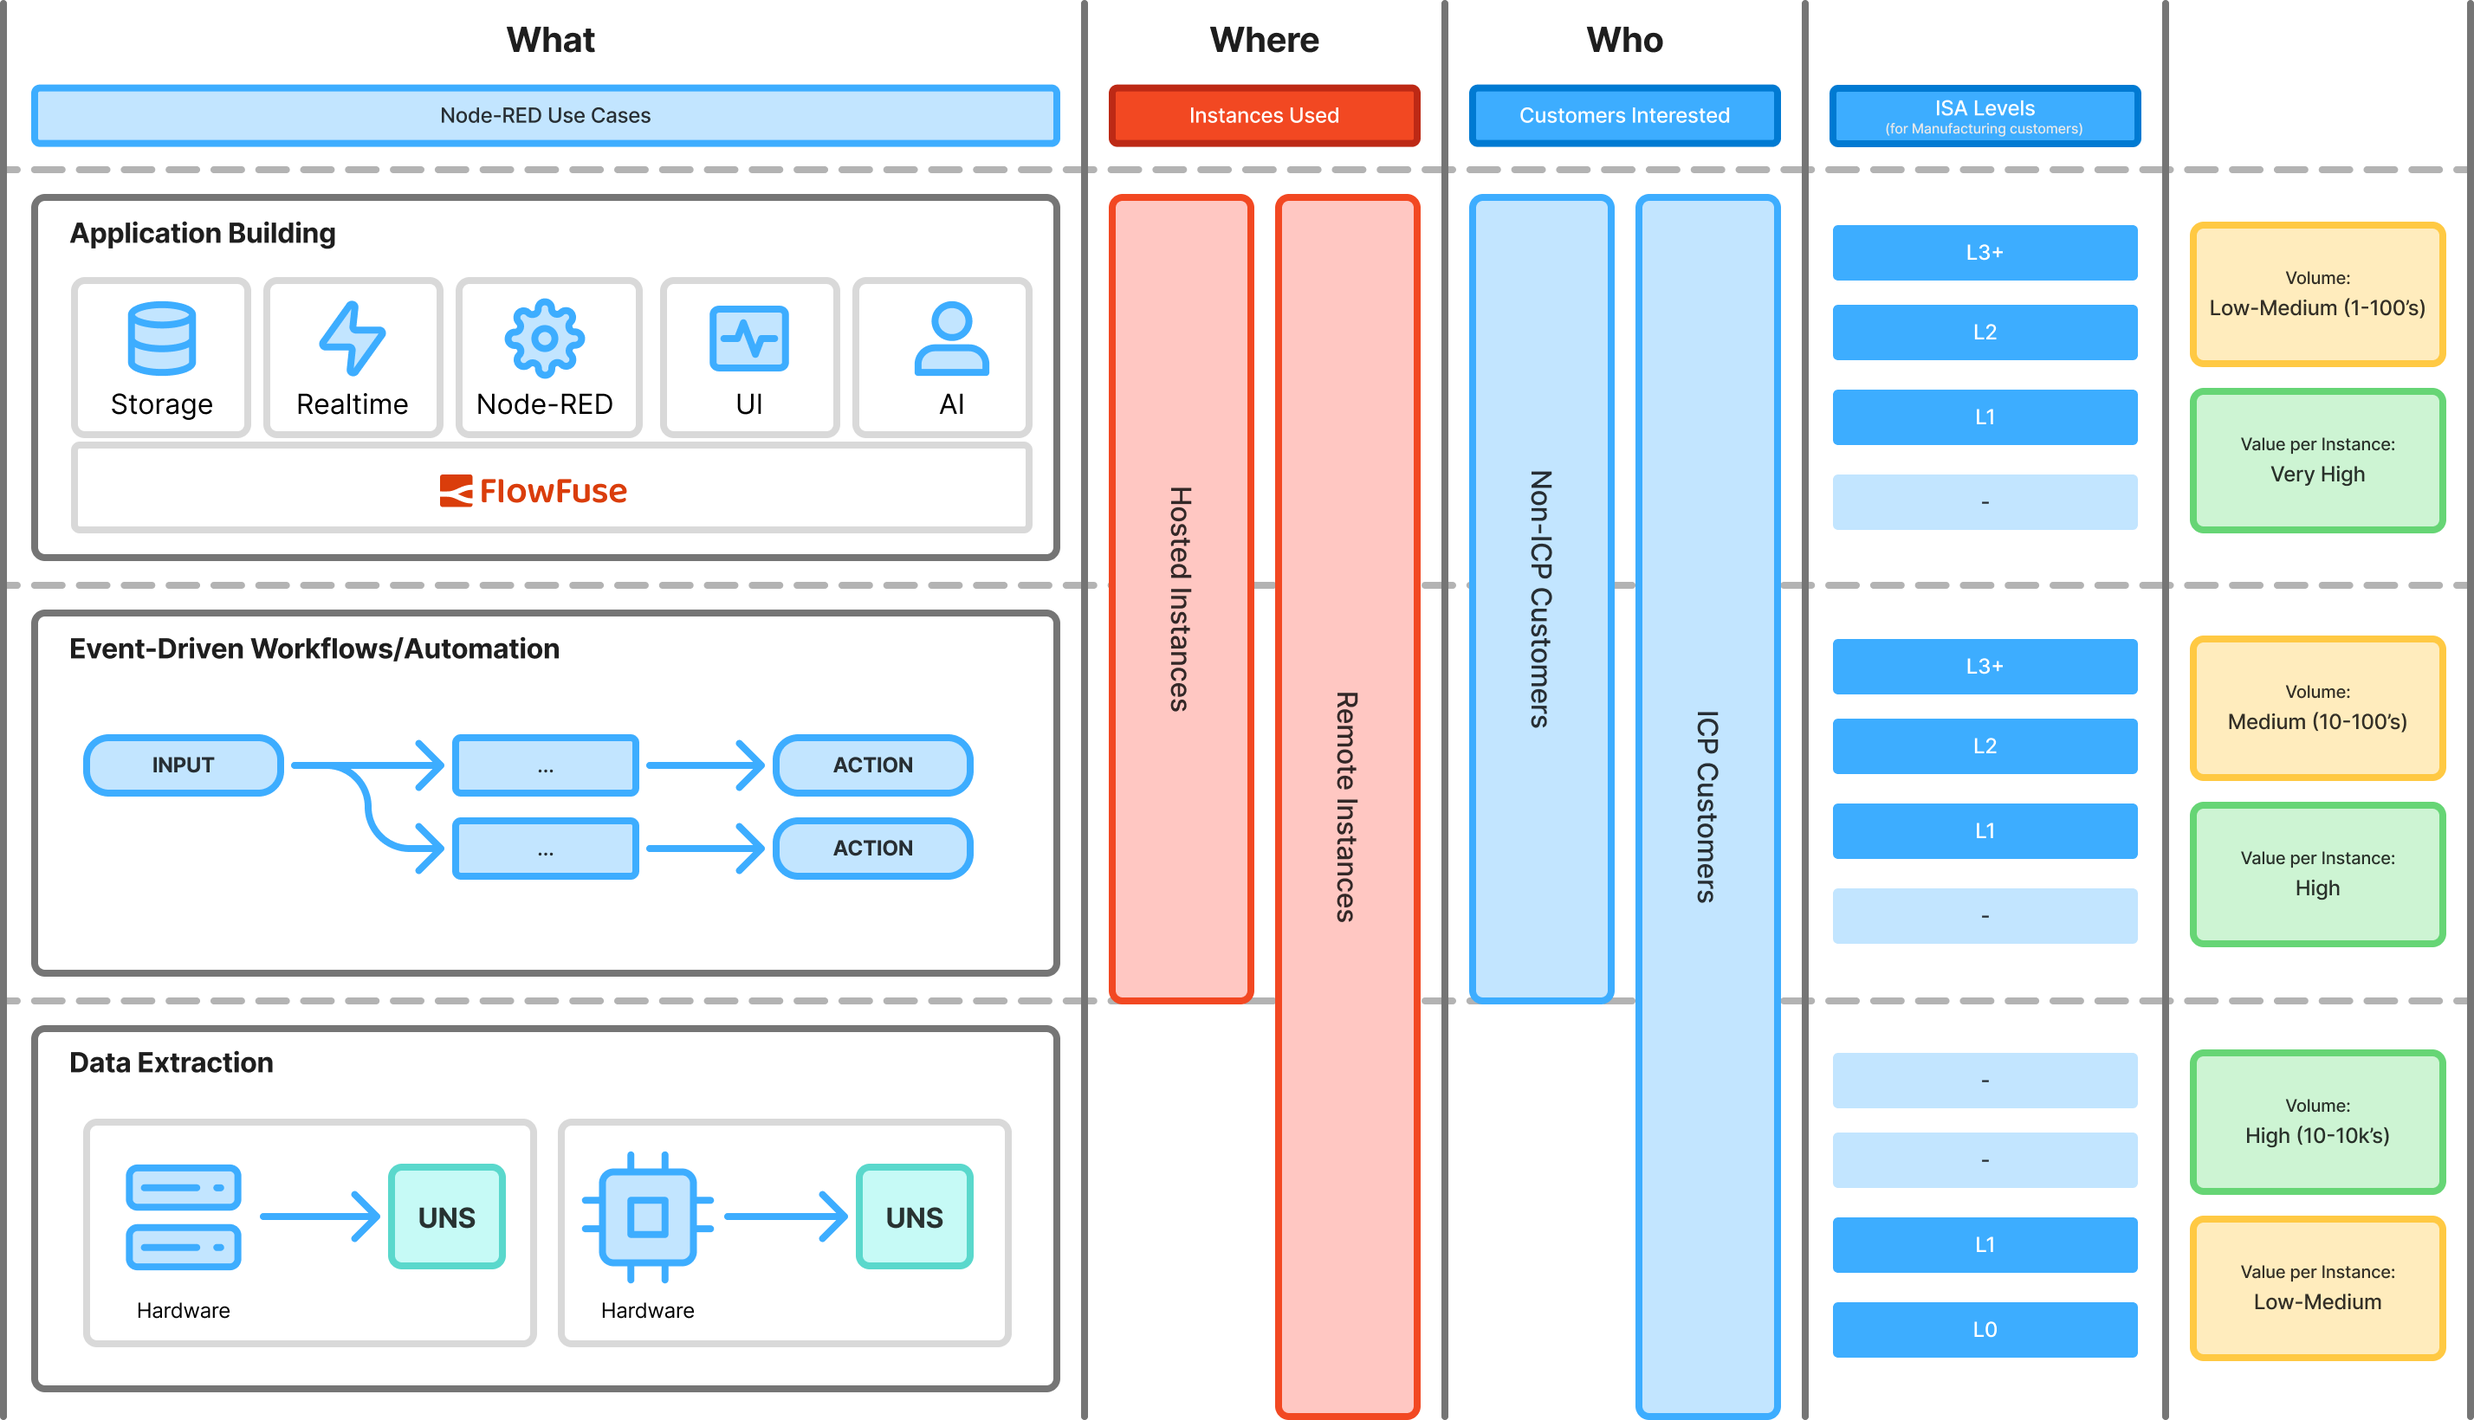
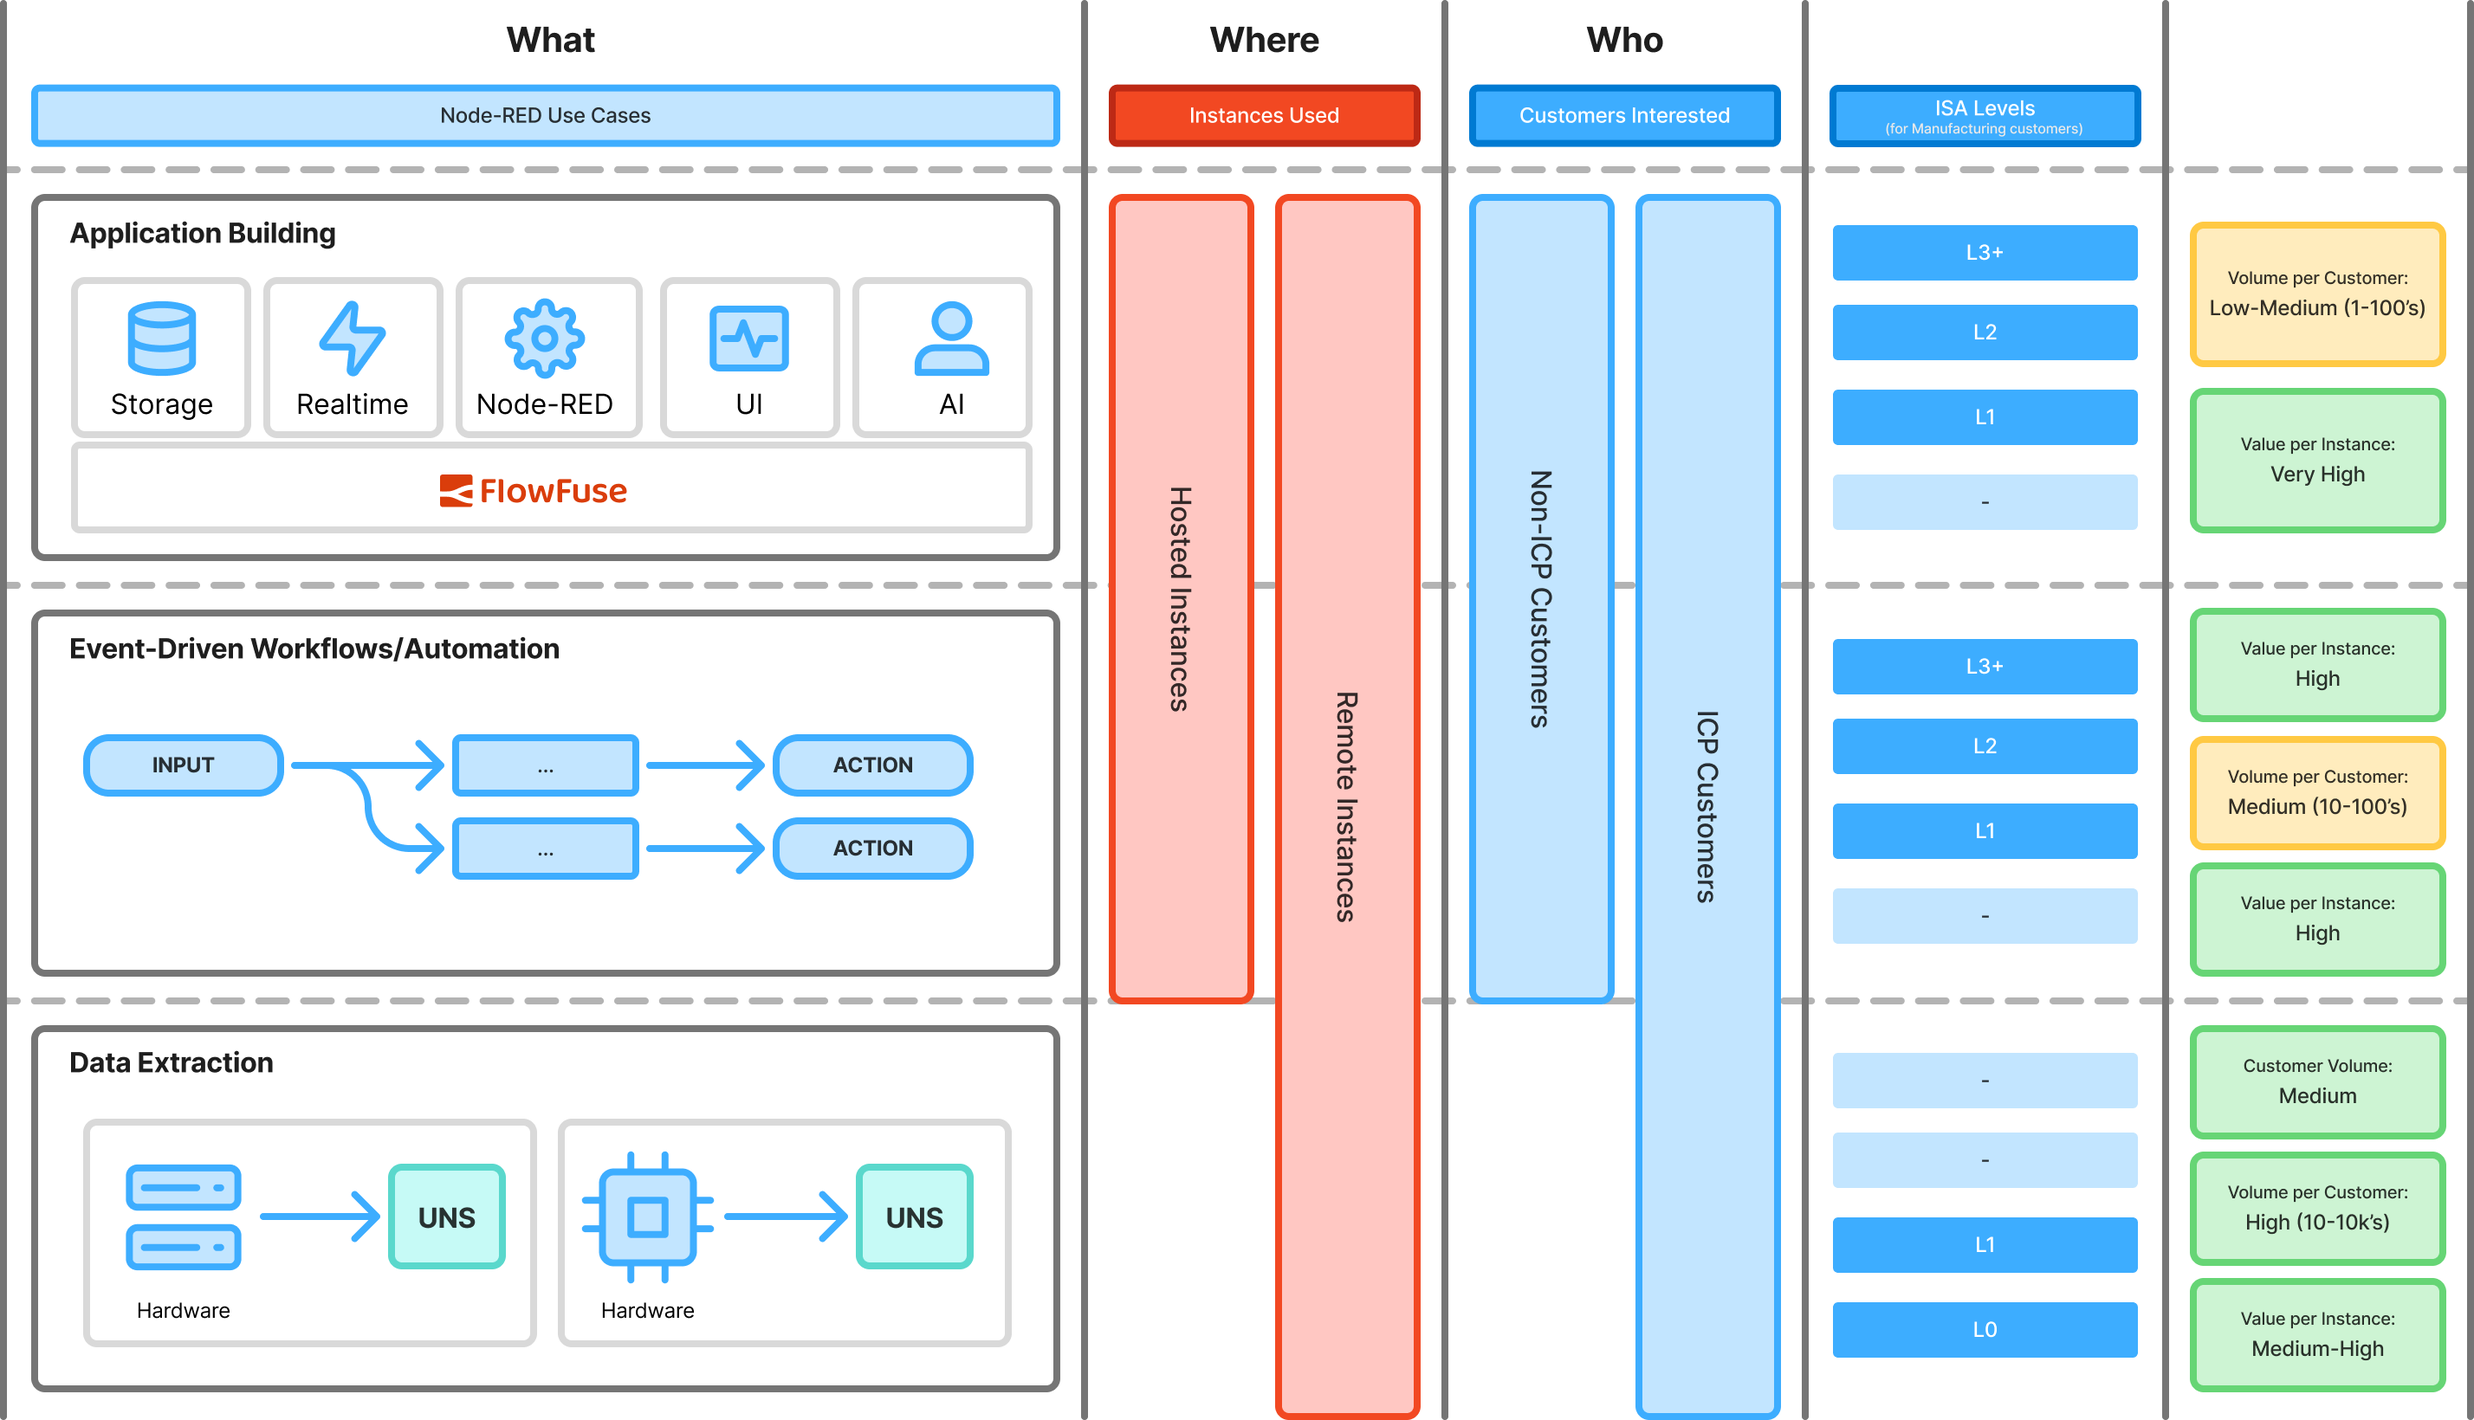
Pad out "Data Extraction" use case, and add in FlowFuse value-offering section

Changed region(s): [[0.8725, 0.4043, 0.9972, 0.9951], [0.9037, 0.1866, 0.966, 0.2177]]

diff --git a/src/handbook/product/use-cases.md b/src/handbook/product/use-cases.md
@@ -4,9 +4,6 @@ navTitle: Use Cases
 
 # Use Cases
 
-![Use Cases](./images/use-cases.png){data-zoomable width="1000px"}
-_Diagram to show a breakdown of the who, what and where of the three core Node-RED use cases we see._
-
 This page is dedicated to describing the use cases that we see our customers using FlowFuse and Node-RED for.
 
 It's purpose is to provide a centralized resource that unifies product, marketing and sales in ensuring
@@ -19,7 +16,13 @@ which is a standard for industrial automation, where these use cases fit into.
 If you want to find out more about _who_ is using FlowFuse and Node-RED, please refer to our
 [Personas](./personas/index.md) and [Ideal Customer Profile](../marketing/messaging#ideal-customer-profile-(icp)) pages.
 
-The three use cases we see are for building flows with FlowFuse and Node-RED are:
+## Flows
+
+In focussing on the flows that we see our customers building with FlowFuse and Node-RED,
+we can break down the use cases into three core categories, as represented by each row of the following diagram:
+
+![Use Cases](./images/use-cases.png){data-zoomable width="1000px"}
+_Diagram to show a breakdown of the who, what and where of the three core Node-RED use cases we see._
 
 1. [Application Development](#application-development) - Ranging from a simple Dashboard to display data in a database, to complex ecosystems that integrate multiple services to create full, enterprise grade applications.
 2. [Event-Driven Workflows/Automation](#event-driven-workflowsautomation) - Flows that have some triggers/inputs, logic to compute on the data, and outputs that take action.
@@ -29,7 +32,7 @@ It's important to understand which use cases prospects care about, as this will 
 Each of these use cases provide different value to different customers, and consequently this can see Node-RED (and consequently FlowFuse)
 competing against different companies and solutions.
 
-## Application Development
+### Application Development
 
 ![Application Development](./images/use-cases-app-building.png){data-zoomable width="600px"}
 _Application Development use cases can use any combination of these five core ingredients._
@@ -37,7 +40,7 @@ _Application Development use cases can use any combination of these five core in
 Application Development use cases are those where Node-RED is used in conjunction with other
 services, for example a Database, Realtime MQTT Broker, AI Agents and Dashboard.
 
-### Where
+#### Where
 
 - ✅ Hosted Instances
 - ✅ Remote Instances
@@ -47,14 +50,14 @@ centralized infrastructure, often collating data sources and visualizing in Dash
 they're certainly not limited to Hosted Instances, as we have many customers running full user
 interfaces/dashboards at the edge on factory floors that may be displaying local data sources.
 
-### Who/What
+#### Who/What
 
 - ✅ ICP Customers
 - ✅ Non-ICP Customers
 
 We have customers that cover both ICP and non-ICP use cases.
 
-#### ICP Use Cases
+##### ICP Use Cases
 
 - ✅ ISA Level 4
 - ✅ ISA Level 3
@@ -73,35 +76,35 @@ AI is seen here whereby a chat interface can be built and provide natural langua
 a UNS or MES. Applications can also display data generated by predictive AI models that monitor
 data feeds and forecast ahead of time their expected behavior.
 
-#### Non-ICP Use Cases
+##### Non-ICP Use Cases
 
 Non-ICP use cases here are _vast_, if you name it, you can build it. Any integration with
 digital services (e.g. databases, realtime data feeds or AI Agents) that may require a
-custom user interface or Dashboard fall into this bracket.
+custom user interface or a dashboard fall into this bracket.
 
-Internally we use FlowFuse ourselves as a non-ICP user to create customer success Dashboards
+To include some examples, internally we use FlowFuse ourselves as a non-ICP user to create customer success Dashboards
 that track our customer's use of FlowFuse, integrate with HubSpot to track prospects and conversations,
 as well as creating applications that collate data from GitHub to improve our own internal
 engineering project management.
 
-### Scale
+#### Scale
 
-- 🟧 Volume: Low-Medium (1-100's of Instances)
-- 🟩 Value: Very High
+- 🟧 Volume per Customer: Low-Medium (1-100's of Instances)
+- 🟩 Value per Instance: Very High
 
-Given that applications are built as a centralized component that integrate multiple services and
+Given that applications are generally built as a centralized component that integrate multiple services and
 data sources together, the number of Instances running this applications is lower, however, the
 value to a customer for each of these single instances is very high.
 
-## Event-Driven Workflows/Automation
+### Event-Driven Workflows/Automation
 
 ![Event-Driven Workflows/Automation](./images/use-cases-workflows.png){data-zoomable width="600px"}
 _Event-Driven Workflows/Automation use cases involve a trigger/input, computation and resulting actions._
 
-Event-Driven Workflows/Automation use cases are those where Node-RED is used to build a
-event-driven workflow or automation.
+Event-Driven Workflows/Automation use cases consist of a given trigger/input, some logic to
+compute on the data, and often some consequence actions as a result.
 
-### Where
+#### Where
 
 - ✅ Hosted Instances
 - ✅ Remote Instances
@@ -117,14 +120,14 @@ For Remote Instances, generally these workflows are driven directly by data from
 for example triggering alerts in a production line if a value exceeds a threshold, or automatically
 opening a work item ticket in a help-desk system if a machine fault is detected.
 
-### Who/What
+#### Who/What
 
 - ✅ ICP Customers
 - ✅ Non-ICP Customers
 
 We have customers that cover both ICP and non-ICP use cases.
 
-#### ICP Use Cases
+##### ICP Use Cases
 
 - ✅ ISA Level 4
 - ✅ ISA Level 3
@@ -152,7 +155,7 @@ queried and if found to be below threshold, automatically ordering more inventor
 - Integrations with Production Lines and a PA system where a Production line signals the
 facility has stopped and alerts shop floor staff via a overhead display and the PA alerts using text-to-speech.
 
-#### Non-ICP Use Cases
+##### Non-ICP Use Cases
 
 From marketing integrations that automatically generate leads, social posts and follow up emails,
 to integrations that can alerts users in Slack, Discord or Microsoft Teams when
@@ -162,17 +165,23 @@ The freedom and scope of what can be built with FlowFuse and Node-RED is vast, y
 take any collection of digital services and hardware data feeds and easily build a workflow to
 integrate them together, taking any appropriate action as a consequence.
 
-### Scale
+Webhooks are also an easy-to-build automation as often, digital services provide the ability
+to define webhook endpoints that can be called when particular events take place, e.g. internally
+at FlowFuse, we use Webhooks with HubSpot & PostHog for tracking customer interaction and recording
+our own data.
 
-- 🟧 Volume: Medium (10-100's of Instances)
-- 🟩 Value: High
+#### Scale
+
+- 🟧 Volume per Customer: Medium (10-100's of Instances)
+- 🟩 Value per Instance: High
 
 It's common to see more Instances running automations than we do in the Application Development
-use cases, mostly because the amount of logic within a single Instance is generally simpler.
-The value provided by a single workflow is still high, and may be saving users hours of time
-on each workflow run, that would have otherwise required manual intervention or effort.
+use cases, mostly because the amount of logic within a single Instance is generally simpler,
+so it is easier/quicker to spin up new workflow ideas. The value provided by a single workflow
+is still high, and may be saving users hours of time, on each workflow run, that would have
+otherwise required manual intervention or effort.
 
-## Data Extraction
+### Data Extraction
 
 ![Data Extraction](./images/use-cases-extraction.png){data-zoomable width="600px"}
 _Data Extraction use cases involve pulling data from hardware, often running at the Edge._
@@ -180,3 +189,103 @@ _Data Extraction use cases involve pulling data from hardware, often running at 
 The most common Industrial Internet of Things (IIoT) use-case, this use case encapsulates Node-RED
 running on hardware, interfacing directly with sensors or via a PLC, reading data and publishing
 it to a UNS or other source.
+
+#### Where
+
+- ✅ Remote Instances
+- ❌ Hosted Instances
+
+Data Extraction use cases are focussed in Remote Instances, running directly on hardware at
+the Edge, whether that's part of a factory production line or on a Raspberry Pi as part of
+a Home Assistant setup.
+
+#### Who/What
+
+- ✅ ICP Customers
+- ❌ Non-ICP Customers
+
+We have customers that cover both ICP and non-ICP use cases.
+
+##### ICP Use Cases
+
+- ❌ ISA Level 4
+- ❌ ISA Level 3
+- ❌ ISA Level 2
+- ✅ ISA Level 1
+- ✅ ISA Level 0
+
+We see two core use cases in ICP customers for Data Extraction, these are:
+
+- Modernization of legacy systems, where data is locked in silos, and not able to publish to a UNS or other source.
+- Protocol Conversion, where data is read from a legacy system using an older/niché protocol, and then published using a more modern protocol, e.g. OPC or MQTT.
+
+Data Extraction is often a foundation to further use cases with ICP customers, such as Application Development, whereby the Data Extraction enables monitoring and reporting on hardware performance, or Automations that may be triggered based on the values of the data extracted.
+
+#### Scale
+
+- 🟩 Volume per Customer: Very High (10-10k's of Instances)
+- 🟩 Value per Instance: Medium-High
+
+We see customers running thousands of Remote Instances of Node-RED for Data Extraction,
+pulling data out of hardware and often then publishing it to a broker/UNS environment.
+FlowFuse makes the management of these Instances simple, providing a single pane of
+glass with which to monitor and manage them.
+
+The value added here is very focussed on the possibilities this data unlocks. In 
+gaining visibility into hardware performance, ICP customers can then implement
+smart automations, alerting and reporting to fundamentally improve metrics
+like mean-time-to-recover (MTTR) and OEE.
+
+The value is also in the modernization of the protocols used by hardware, this can
+save ICP customers $100k's in costs of replacing hardware with more modern alternatives.
+
+## Node-RED in Production
+
+A core value of FlowFuse is being able to scale Node-RED deployments to the scale
+of thousands and higher. We often have prospects approaching us with the management
+of Node-RED in a production environment being the primary pain point that they are
+experiencing, so whilst the applications that customers build have focus in
+the above 3 use cases, FlowFuse as a platform offers much more.
+
+### Scale & Management of Node-RED Deployments
+
+Customers are often running many Node-RED instances spread across a range of
+infrastructure, whether this be in their own Cloud environments or spread across
+hardware in multiple factories and production lines.
+
+FlowFuse offers a centralized view of this ecosystem, making it easy for customers to 
+manage and monitor their Node-RED instances from a single view.
+
+FlowFuse also offers High Availability, ensuring redundancy and resilience of the instances.
+
+### Security
+
+Often, a major concern for running Node-RED in a production environment is the
+security of the instances. FlowFuse offers a range of security features to help
+keep Node-RED instances secure, including TLS/SSL, Single Sign-on (SSO) and
+Audit logs for traceability.
+
+### Reliability
+
+One of the great benefits of Node-RED is it's open-source nature, and consequently
+the 5,500+ community nodes that have been contributed to the Node-RED ecosystem.
+However, the range of quality and reliability of these nodes can vary, and
+this can be a concern for customers running Node-RED in a production environment,
+particularly the lack of accountability of the authors should something go wrong.
+
+At FlowFuse, we offer the Certified Nodes program, which is a collection of nodes
+that FlowFuse have put a rubber-stamp on to say that FlowFuse will take
+accountability for. This offers reassurance to prospects that the nodes they are
+using are reliable and secure.
+
+### Version Control
+
+Node-RED, on it's own, does not offer a way to version control flows, making it
+difficult to rollback to a previous version if needed, and work in collaborative
+environments, where many contributors are working on the same flows.
+
+FlowFuse uses Snapshots as a way to version control, not just the flow, but
+the provided settings and environment variables too. These also feed into FlowFuse's
+DevOps Pipelines which provides a mechanism by which customers can run isolated
+development, staging and production environments, improving the reliability of
+their own applications and deployments.
